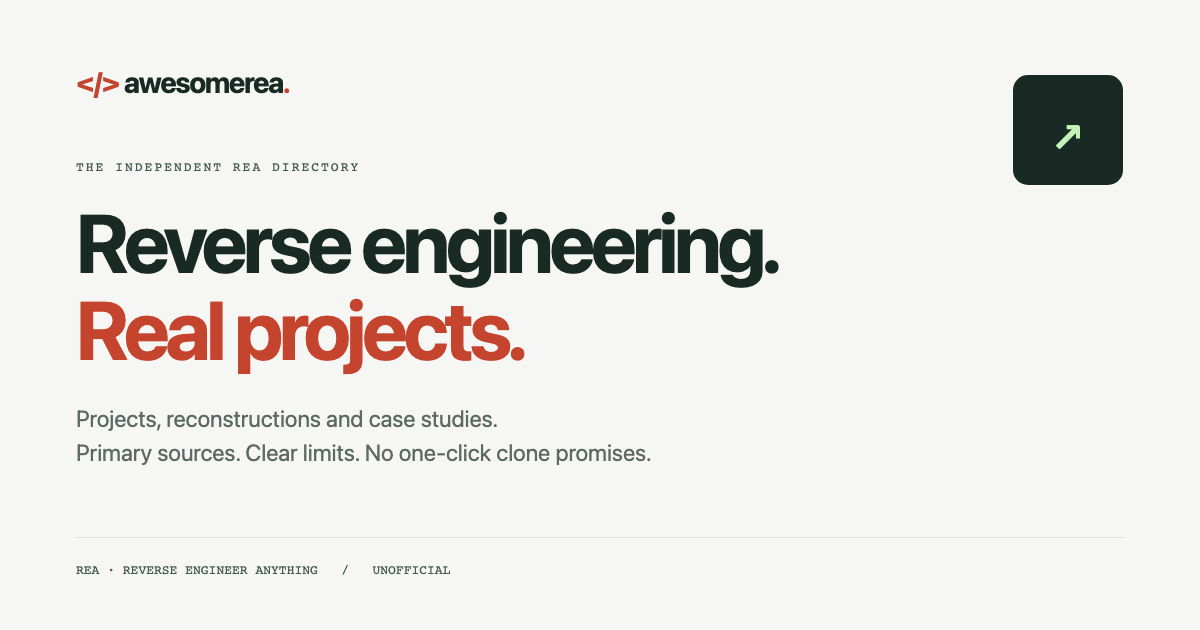
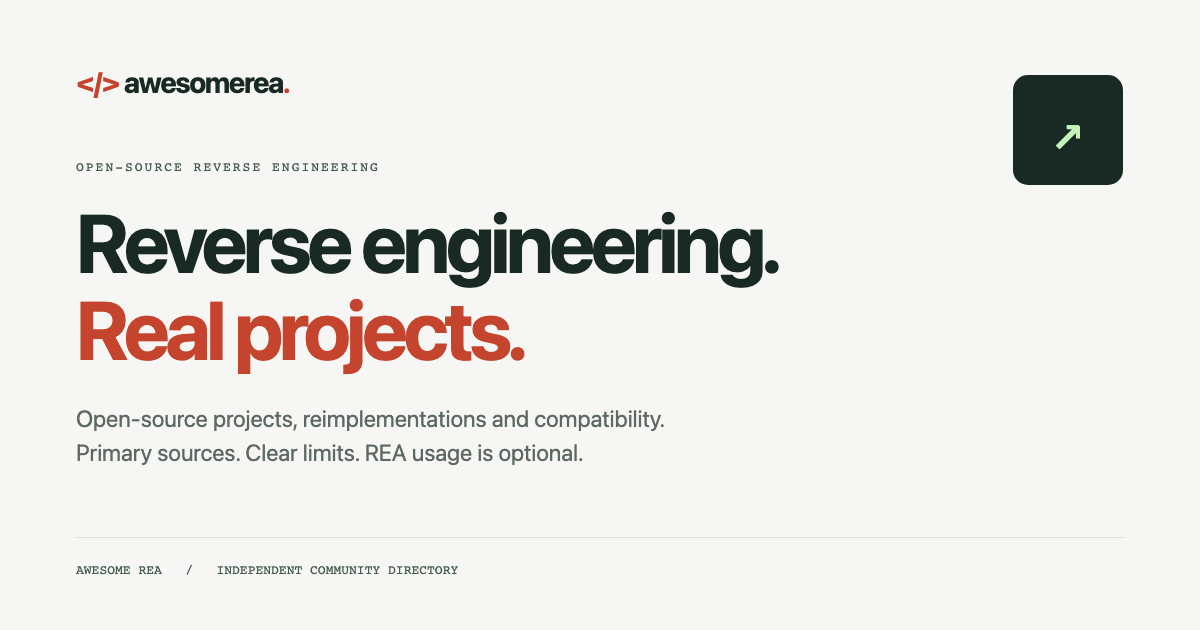
feat: welcome open-source reverse engineering beyond REA

diff --git a/CONTRIBUTING.md b/CONTRIBUTING.md
@@ -1,6 +1,6 @@
 # Contributing to Awesome REA
 
-**Recommend useful REA work with primary evidence. You do not need to write code. English or Chinese is welcome（欢迎中文投稿）.**
+**Recommend open-source reverse-engineering projects, independent reimplementations and compatibility tools. REA usage is not required. English or Chinese is welcome（欢迎中文投稿）.**
 
 ## Submit an Issue
 
@@ -8,18 +8,18 @@
 - [Correction or removal](https://github.com/kaixinbaba/awesome-rea/issues/new?template=2-correction.yml)
 - [Website bug](https://github.com/kaixinbaba/awesome-rea/issues/new?template=3-website.yml)
 
-Before submitting, search the [directory](README.md#directory) and existing Issues. Provide a repository or canonical project URL, a specific description, REA evidence, license, status and limitations. Disclose your relationship to the project. Never submit secrets, private binaries, proprietary investigation data or someone else's personal information.
+Before submitting, search the [directory](README.md#directory) and existing Issues. Provide a repository or canonical project URL, a specific description, primary evidence of its reverse-engineering/reimplementation/compatibility scope, license, status and limitations. Disclose your relationship to the project. Never submit secrets, private binaries, proprietary investigation data or someone else's personal information.
 
-A link to another directory can help discovery, but it is **not enough evidence for inclusion**. Prefer an author README, source file, commit, writeup or official REA showcase. Link the exact passage; commit-pinned sources are best. Show what REA actually contributed, or what an integration/resource provides.
+A link to another directory can help discovery, but it is **not enough evidence for inclusion**. Prefer an author README, source file, commit, writeup or official REA showcase. Link the exact passage; commit-pinned sources are best. Explain what is being analyzed, reimplemented or made compatible. If REA was involved, document its specific role; otherwise do not imply it was used.
 
 ## Inclusion rules
 
 | Acceptable | Not sufficient |
 | --- | --- |
-| Author-documented use of REA for a specific piece of work | A popular open-source alternative with no REA connection |
-| A plugin, agent skill, bridge or package explicitly integrating REA | A keyword match, unexplained fork or mirror |
-| A useful tutorial, lab, resource list or published REA case study | A copied directory description with no primary source |
-| A project with REA scripts, labeled **REA tooling present** | Claiming the whole project was built with REA because a script exists |
+| Open-source reverse-engineering work, independent reimplementations or compatibility layers | A generic alternative without evidence of the claimed reconstruction or compatibility scope |
+| Early/alpha projects with real source and honest limitations | Advertising full parity merely because menus, mockups or a feature checklist exist |
+| REA tools, plugins, agent skills, bridges, tutorials and source-backed case studies | A keyword match, unexplained fork or mirror |
+| Documented REA involvement, if any, limited to its supported scope | Claiming REA created a project without evidence, or requiring REA use for an otherwise eligible project |
 
 For software, link a clear, applicable open-source license notice. A GitHub repository being public is not a license; an absent or restrictive license may prevent inclusion in the software directory. Public case-study pages can be linked as reading material without implying their target software is openly licensed. Do not label a project a full replacement unless its supported scope and usable build justify that claim.
 
@@ -28,7 +28,7 @@ Flag original assets, commercial dependencies, third-party notices, paid model s
 ## Send a data PR
 
 1. Edit [`src/projects.json`](src/projects.json), not generated HTML. Keep an existing entry's `id` stable so website anchors continue to work.
-2. Use the separate purpose, type and REA-relationship fields. Copy the shape of a comparable entry and read the [field reference](docs/development.md#catalog-fields).
+2. Use the separate purpose, type and project-relationship fields; choose `Independent reimplementation` or `Compatibility project` when appropriate. REA-specific labels are optional and require evidence. Copy the shape of a comparable entry and read the [field reference](docs/development.md#catalog-fields).
 3. Set `checked` to the date you actually reviewed the evidence. Do not refresh dates merely because a build ran.
 4. Write original, concise descriptions. Do not copy a third-party README wholesale. Preserve scope and uncertainty.
 5. Run `npm ci`, `npm run readme`, then `npm test`. Commit the data and regenerated README together. Do not manually change the README's generated catalog section.

diff --git a/docs/development.md b/docs/development.md
@@ -1,6 +1,6 @@
 # Development and deployment
 
-**One JSON catalog generates the README directory and a static website. No server, database, runtime dependency or submission service is needed.**
+**One JSON catalog generates the README directory and a static website. Scope: open-source reverse engineering, independent reimplementations and compatibility projects; REA usage is optional. No backend is needed.**
 
 ## Local development
 
@@ -33,9 +33,9 @@ Preview at `http://127.0.0.1:4387`. Build output is in `dist/`; it is not commit
 | `name`, `url` | Display name and current canonical project/page URL |
 | `category` | Purpose: `dev-tools`, `games`, `apps`, `hardware`, `integrations`, or `learning` |
 | `kind` | Type: `tool`, `reconstruction`, `interoperability`, `integration`, `analysis`, or `resource` |
-| `relationship` | One of the six human-readable values in `scripts/catalog.mjs` |
+| `relationship` | Project provenance label from `scripts/catalog.mjs`; independent reimplementations and compatibility projects need no REA connection. Use a REA-specific label only when supported. |
 | `summary`, `target` | Website description and target/platform context |
-| `listSummary` | Optional one-sentence README description, at most 160 characters; falls back to `summary`. Keep the REA scope accurate. |
+| `listSummary` | Optional one-sentence README description, at most 160 characters; falls back to `summary`. Preserve the actual scope and maturity. |
 | `evidence`, `evidenceScope` | Primary HTTPS source and the exact scope it supports; prefer a full commit-pinned URL |
 | `status`, `limitation` | Author-reported maturity and important missing features, dependencies or evidence limits |
 | `license`, `licenseUrl` | Scoped license label and primary license notice; `null` is allowed for a reading-only case study/resource, not unlicensed software |
@@ -44,7 +44,7 @@ Preview at `http://127.0.0.1:4387`. Build output is in `dist/`; it is not commit
 | `checked` | Actual source-review date in `YYYY-MM-DD`; never set to a future date |
 | `initial`, `tag`, `tone` | Small display mark, specific subtitle and one of `mint`, `peach`, `lavender`, `sand` |
 
-Purpose, output type, REA relationship and maturity are independent. Empty purpose groups are hidden. Search covers visible card text and evidence details; purpose and type filters combine. Entries remain readable without JavaScript.
+Purpose, output type, project relationship and maturity are independent. REA usage is not an inclusion requirement; early/alpha projects may be listed with accurate limitations. Empty purpose groups are hidden. Search covers visible card text and evidence details; purpose and type filters combine. Entries remain readable without JavaScript.
 
 Run `npm run readme` after data changes. `npm test` fails if the committed README no longer matches the JSON. Only the catalog block between its marker comments is generated; the surrounding README can be edited normally.
 

diff --git a/.github/pull_request_template.md b/.github/pull_request_template.md
@@ -4,12 +4,12 @@ Link the related Issue if there is one. Keep this PR focused.
 
 ## Evidence and scope
 
-For catalog changes, link the exact primary evidence and license notice. Explain REA's specific role and any limitations. Disclose your affiliation. For website changes, describe the behavior before and after.
+For catalog changes, link the exact primary evidence and license notice. Explain the reverse-engineering/reimplementation/compatibility scope and any limitations. REA is optional; document its specific role only if claimed. Disclose your affiliation. For website changes, describe the behavior before and after.
 
 ## Checks
 
 - [ ] I read CONTRIBUTING.md and did not include secrets or private data.
-- [ ] Catalog descriptions do not overstate REA's role, functionality or license scope.
+- [ ] Catalog descriptions do not overstate functionality, license scope or any claimed REA role.
 - [ ] I ran `npm run readme` when changing catalog data and included the generated README.
 - [ ] `npm test` passes.
 - [ ] For UI changes, I ran browser checks or clearly explained what remains untested.

diff --git a/README.md b/README.md
@@ -1,6 +1,6 @@
 # Awesome REA
 
-A curated list of projects, plugins and learning resources around [REA — Reverse Engineer Anything](https://github.com/morluto/rea).
+Open-source reverse-engineering projects, reimplementations and compatible alternatives, plus [REA](https://github.com/morluto/rea) tools and resources. **REA usage is not required.**
 
 [Website](https://awesomerea.com) · [Suggest a project](https://github.com/kaixinbaba/awesome-rea/issues/new?template=1-project.yml) · [Contributing](CONTRIBUTING.md)
 
